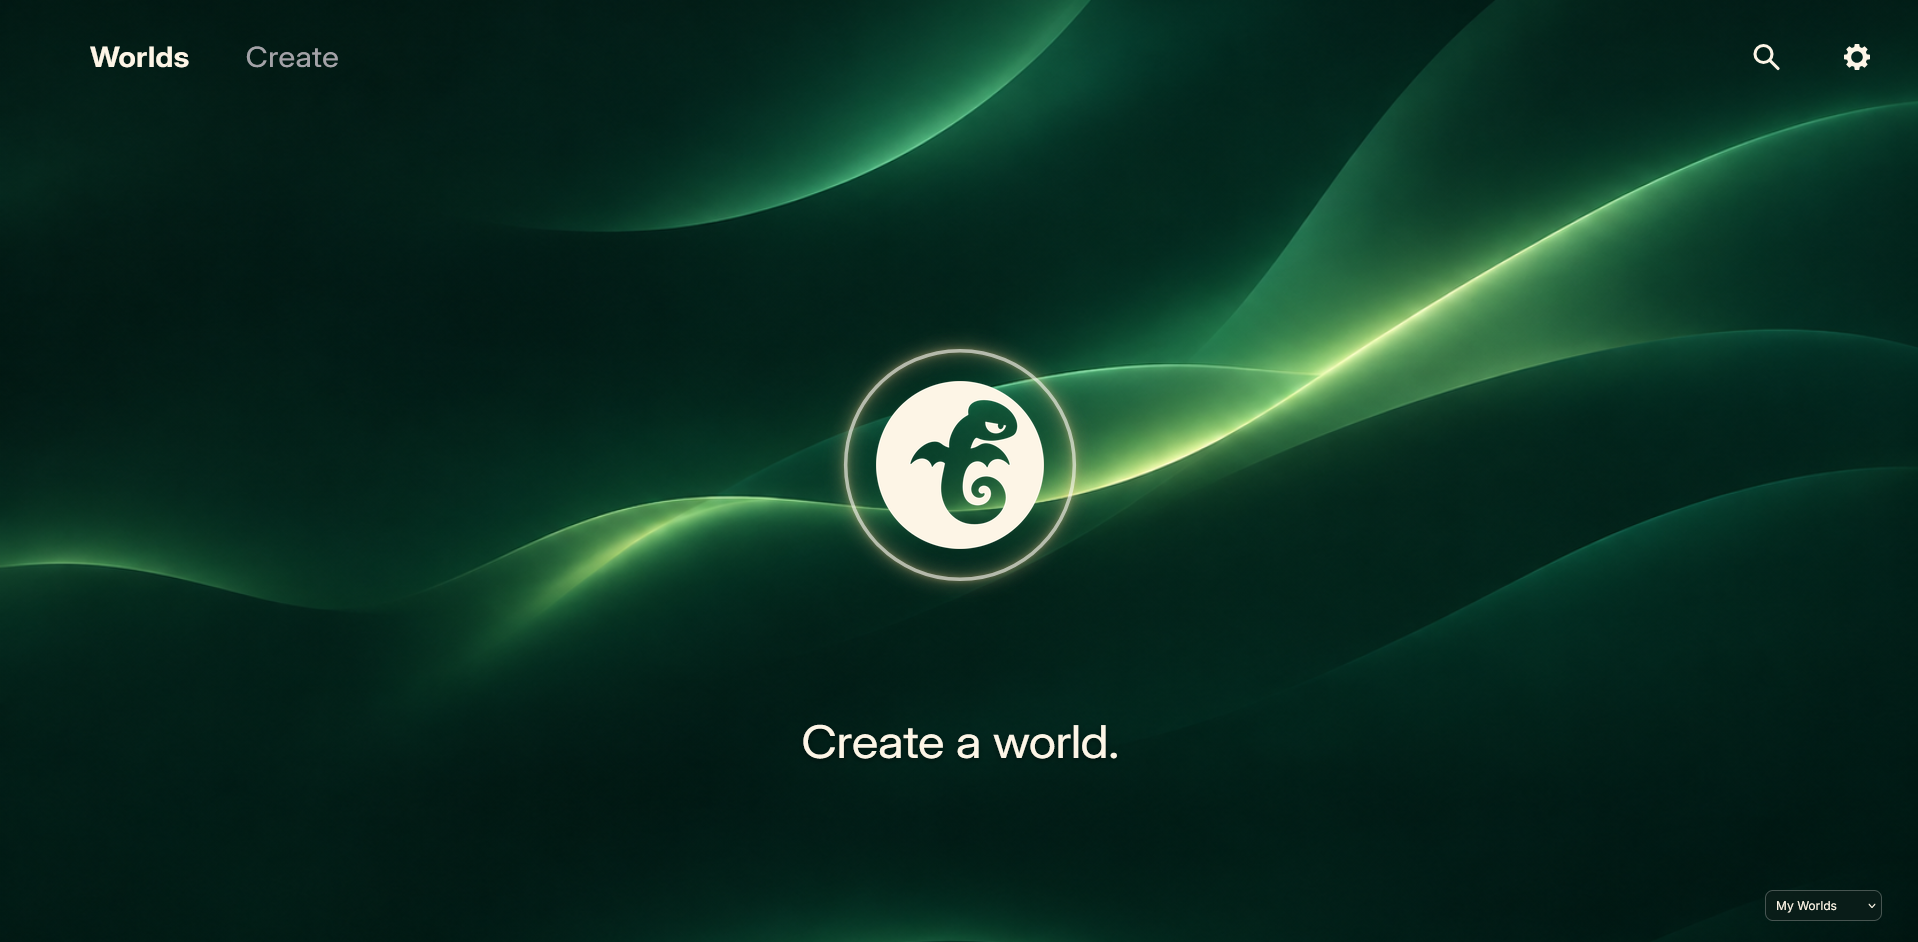
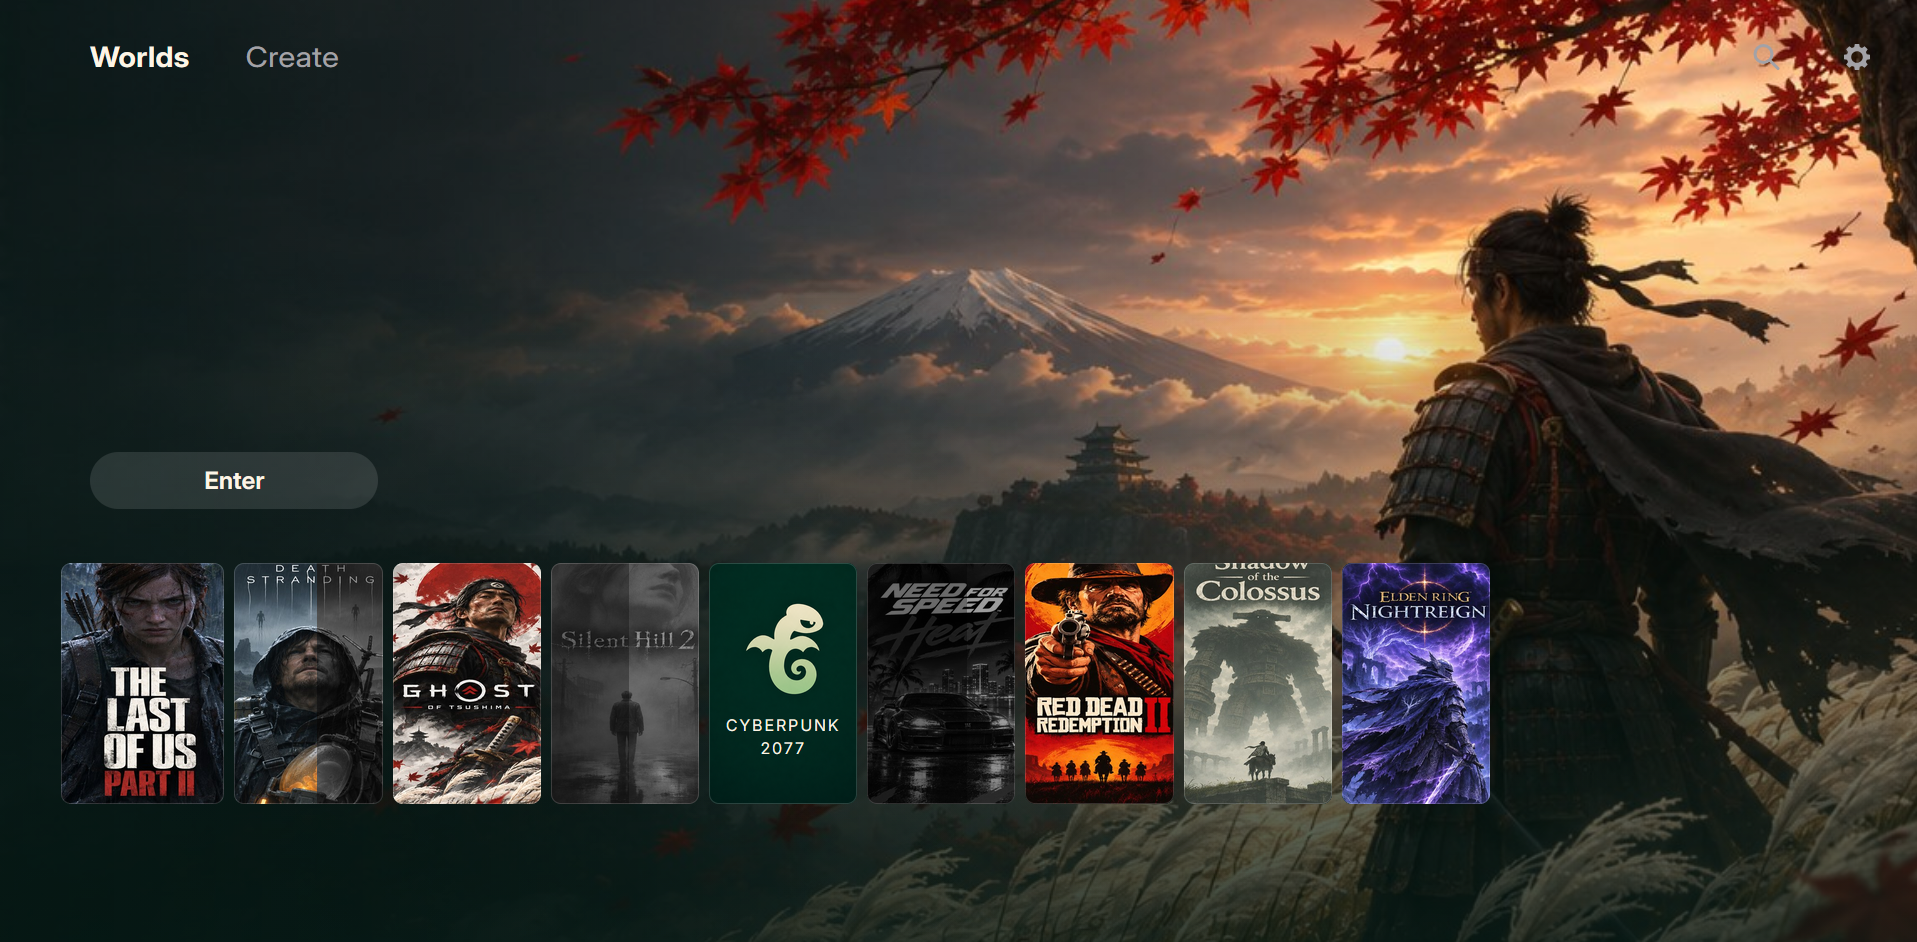
docs(readme): show the Demo Worlds shelf
Use the supplied Ghost of Tsushima preview and update the screenshot alt text.

diff --git a/README.md b/README.md
@@ -20,7 +20,7 @@ And none of this is staged. Harry, Umbridge, your missing friend, Ruijerd, Paul:
 
 ## Screenshot
 
-![TaleSide homepage before any Worlds have been created](./docs/screenshots/homepage.png)
+![TaleSide’s Demo Worlds shelf previewing Ghost of Tsushima](./docs/screenshots/homepage.png)
 
 ## Quickstart
 
